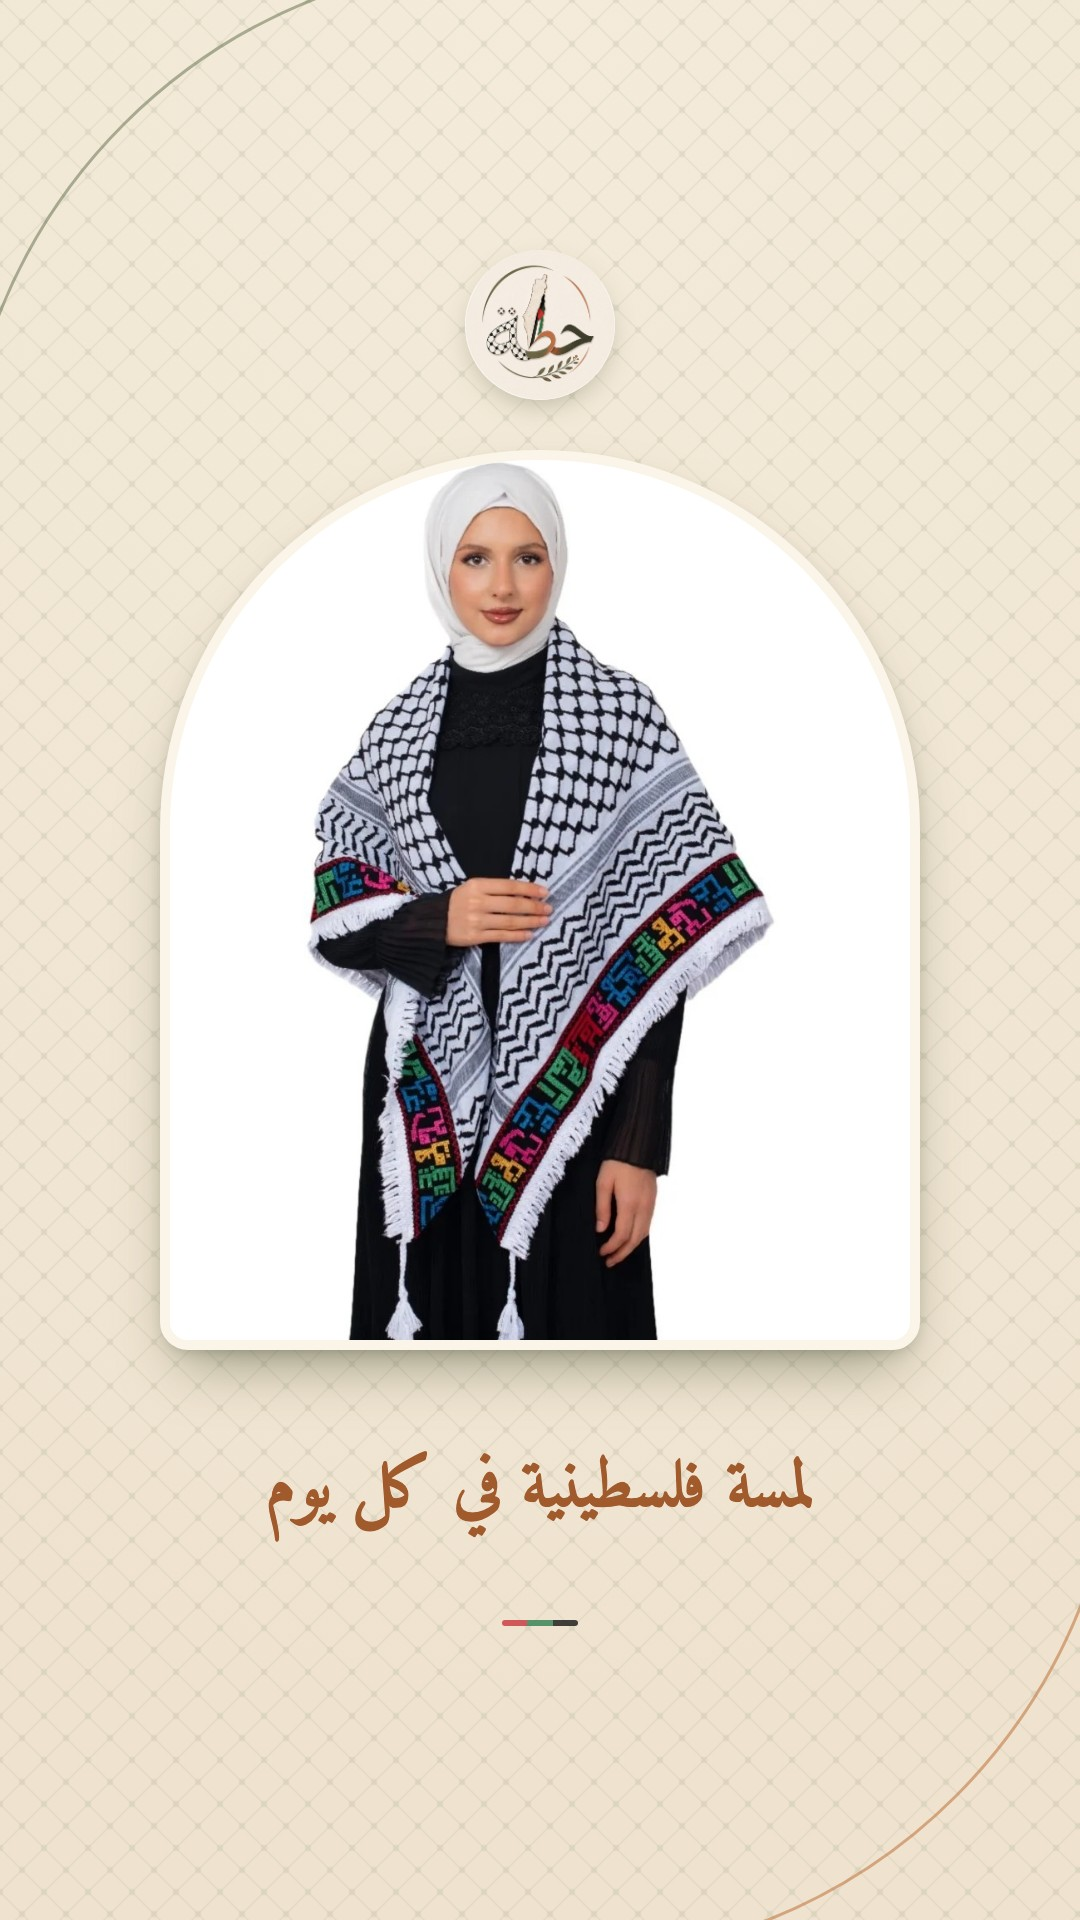
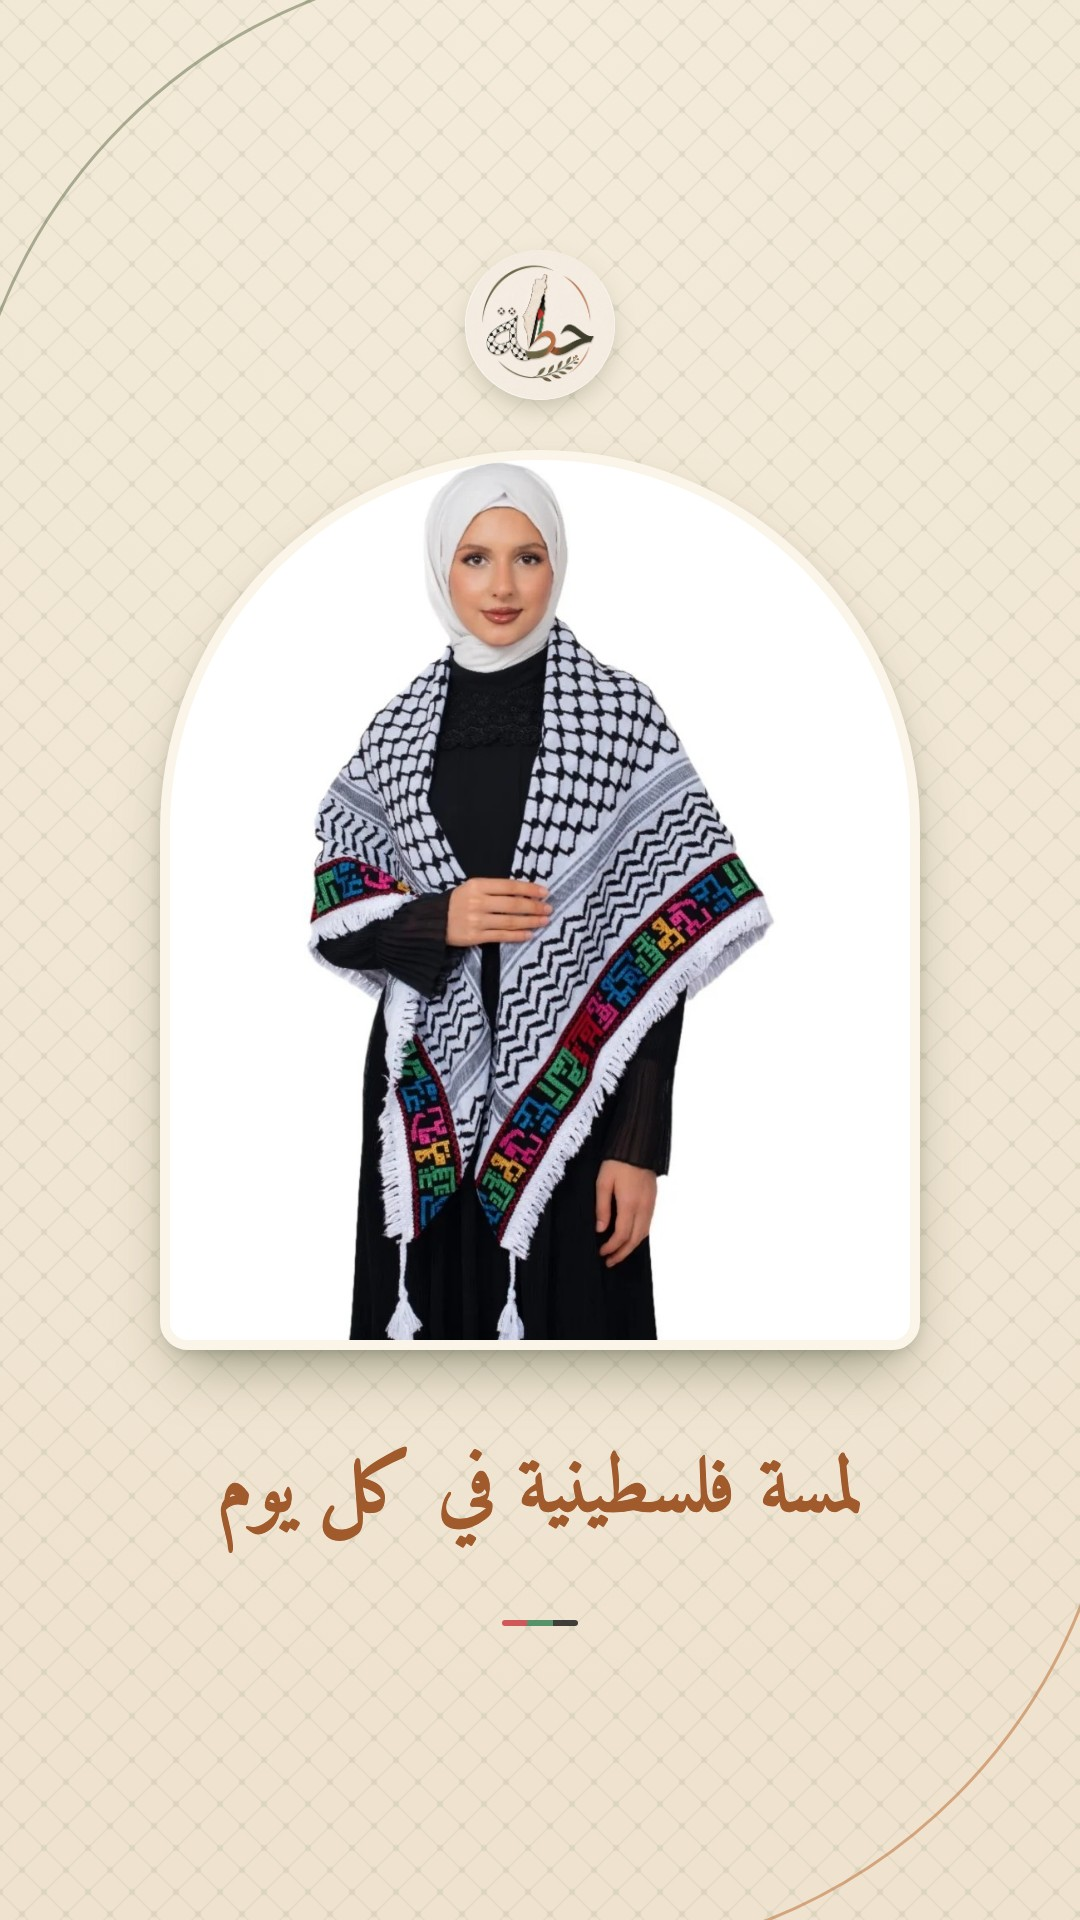
Reels: larger text, tighter end card, to-reel conversion, Instagram container check (no publish)

Changed region(s): [[0.4889, 0.75, 0.7944, 0.8125], [0.1833, 0.75, 0.3972, 0.8125], [0.3972, 0.75, 0.4583, 0.8125]]

diff --git a/automation/src/render/reel.ts b/automation/src/render/reel.ts
@@ -53,7 +53,7 @@ export function reelHtml(req: ReelRequest, a: Assets): string {
   const site = esc(siteDisplay(req.storeUrl));
   const wa = esc(whatsappDisplay());
   const photo1 = a.cutout ? `<img id="p1" class="cutimg" src="${a.cutout}">` : `<img id="p1" class="ph" src="${a.photo}">`;
-  const price = `<div class="pricepill" id="pill" style="top:1480px;opacity:0">${
+  const price = `<div class="pricepill" id="pill" style="top:1485px;opacity:0">${
     req.oldPrice ? `<span class="old">${fmt(req.oldPrice)} TL</span>` : ""
   }<span class="price">${fmt(req.price)} <small>TL</small></span></div>`;
   return `<!doctype html><html lang="ar" dir="rtl"><head><meta charset="utf-8"><style>
@@ -96,14 +96,14 @@ body{font-family:'Amiri','Playfair Display',serif;color:${C.oliveDeep}}
 
 <div class="scene" id="s1">
   <div class="frame${a.cutout ? " cut" : ""}" id="f1" style="left:160px;top:450px;width:760px;height:900px;border-radius:380px 380px 28px 28px;opacity:0">${photo1}</div>
-  <div class="fit head" id="head" data-max="68" data-min="34" style="top:1390px;height:200px"><span>${words(req.text.headline)}</span></div>
+  <div class="fit head" id="head" data-max="80" data-min="38" style="top:1385px;height:215px"><span>${words(req.text.headline)}</span></div>
   <div class="flag" id="flag1" style="top:1620px;opacity:0"></div>
 </div>
 
 <div class="scene" id="s2">
   <div class="frame" id="f2" style="left:140px;top:450px;width:800px;height:720px;border-radius:44px;opacity:0"><img id="p2" class="ph" src="${a.photo2}"></div>
-  <div class="fit name" id="name" data-max="56" data-min="28" style="top:1196px;height:140px;opacity:0"><span>${esc(req.nameAr)}</span></div>
-  <div class="fit subl" id="subl" data-max="38" data-min="24" style="top:1340px;height:116px;opacity:0"><span>${esc(req.text.subline)}</span></div>
+  <div class="fit name" id="name" data-max="62" data-min="30" style="top:1190px;height:150px;opacity:0"><span>${esc(req.nameAr)}</span></div>
+  <div class="fit subl" id="subl" data-max="42" data-min="26" style="top:1345px;height:120px;opacity:0"><span>${esc(req.text.subline)}</span></div>
   ${price}
 </div>
 
@@ -112,10 +112,10 @@ body{font-family:'Amiri','Playfair Display',serif;color:${C.oliveDeep}}
   <img class="logo" id="logo3" src="${logoDataUri()}" style="left:380px;top:430px;width:320px;height:320px;opacity:0;border:6px solid #FBF5E9">
   <div class="t" id="tag" style="top:790px;font-size:50px;color:#E3C9A0;font-weight:700">تراث فلسطيني بين يديك</div>
   <div class="rule" id="rule" style="top:900px;opacity:0"><span class="diamond"></span></div>
-  <div class="t" id="c1" style="top:960px;font-size:46px">اطلب من المتجر</div>
-  <div class="t url" id="c2" style="top:1030px;font-size:64px;color:${C.cream}">${site}</div>
-  <div class="t" id="c3" style="top:1190px;font-size:46px">أو عبر واتساب</div>
-  <div class="t url" id="c4" style="top:1260px;font-size:64px;color:#E3A56E">${wa}</div>
+  <div class="t" id="c1" style="top:960px;font-size:52px">اطلب من المتجر</div>
+  <div class="t url" id="c2" style="top:1035px;font-size:72px;color:${C.cream}">${site}</div>
+  <div class="t" id="c3" style="top:1200px;font-size:52px">أو عبر واتساب</div>
+  <div class="t url" id="c4" style="top:1275px;font-size:72px;color:#E3A56E">${wa}</div>
   <div class="flag" id="flag3" style="top:1420px;opacity:0"></div>
 </div>
 </div>
@@ -125,7 +125,7 @@ const eo=p=>1-Math.pow(1-p,3);
 const eb=p=>{const c=1.70158,d=c+1;return 1+d*Math.pow(p-1,3)+c*Math.pow(p-1,2)};
 const $=id=>document.getElementById(id);
 $('flag1').innerHTML=$('flag3').innerHTML='<i style="background:#111"></i><i style="background:#2E7D4F"></i><i style="background:#C8323B"></i>';
-const S1=[0,4.9],S2=[4.5,9.8],S3=[9.4,${REEL_SECONDS}];
+const S1=[0,4.9],S2=[4.5,9.8],S3=[9.3,${REEL_SECONDS}];
 const sceneOp=(t,s,last)=>Math.min(clamp((t-s[0])/.5),last?1:1-clamp((t-(s[1]-.5))/.5));
 function enter(el,t,t0,dur,kind){const p=clamp((t-t0)/dur);const e=eo(p);el.style.opacity=e;
   if(kind==='pop'){el.style.transform='translateX(-50%) scale('+(.55+.45*eb(p))+')'}
@@ -142,7 +142,7 @@ window.seek=function(t){
   const z2=1.18-.16*clamp(l/(S2[1]-S2[0]));$('p2').style.transform='scale('+z2+') translate('+(14*l)+'px,'+(8*l)+'px)';
   enter($('name'),t,S2[0]+.55,.6,'rise');enter($('subl'),t,S2[0]+.95,.6,'rise');
   enter($('pill'),t,S2[0]+1.5,.7,'pop');
-  const b=S3[0]+.2;enter($('logo3'),t,b,.7,'rise');enter($('tag'),t,b+.45,.6,'rise');
+  const b=S3[0]-.1;enter($('logo3'),t,b,.7,'rise');enter($('tag'),t,b+.45,.6,'rise');
   $('rule').style.opacity=eo(clamp((t-(b+.8))/.5));
   enter($('c1'),t,b+1.0,.5,'rise');enter($('c2'),t,b+1.3,.6,'rise');enter($('c3'),t,b+1.8,.5,'rise');enter($('c4'),t,b+2.1,.6,'rise');
   $('flag3').style.opacity=eo(clamp((t-(b+2.6))/.5));

diff --git a/automation/src/regenerate.ts b/automation/src/regenerate.ts
@@ -1,4 +1,4 @@
-// Re-creates parts of one post. Usage: tsx src/regenerate.ts --post=<uuid> --what=image|caption|both|swap
+// Re-creates parts of one post. Usage: tsx src/regenerate.ts --post=<uuid> --what=image|caption|both|swap|to-reel
 import { loadEnv } from "./env.js";
 import { getSupabase } from "./db.js";
 import { Renderer } from "./render/render.js";
@@ -17,6 +17,7 @@ const settings = await loadSettings(sb);
 const cats = await loadCategories(sb);
 const { data: post, error } = await sb.from("social_posts").select("*").eq("id", postId).single();
 if (error || !post) throw new Error(`post not found: ${error?.message}`);
+if (what === "to-reel" && post.post_type !== "feed") throw new Error("to-reel needs a feed post");
 if (["publishing", "published"].includes(post.status)) throw new Error(`post is ${post.status}; cannot regenerate`);
 
 let productId = post.product_id as string;
@@ -48,9 +49,9 @@ try {
   const caption = what === "caption" || what === "both" || what === "swap";
   // A reel is re-rendered whole (hook text, caption and video come from one model call).
   let assets;
-  if (post.post_type === "reel") {
+  if (post.post_type === "reel" || what === "to-reel") {
     const { count } = await sb.from("social_posts").select("id", { count: "exact", head: true }).eq("post_type", "reel");
-    assets = await buildReelAssets(sb, reelRenderer, settings, cats, { ...post, angle, design: null }, product, count ?? 0);
+    assets = await buildReelAssets(sb, reelRenderer, settings, cats, { ...post, angle, design: null }, product, count ?? 0, what === "to-reel");
   } else {
     assets = await buildPostAssets(sb, renderer, settings, cats, { ...post, angle, design }, product, {
       image,
@@ -60,6 +61,8 @@ try {
   const patch: Record<string, unknown> = { ...assets, product_id: productId, angle, error: null, attempts: 0 };
   if (post.status === "failed") patch.status = "draft";
   if (what === "swap") patch.status = "draft";
+  // to-reel: the feed post becomes a reel of the same product, keeping its caption, slot and approval.
+  if (what === "to-reel") patch.post_type = "reel";
   const { error: upErr } = await sb.from("social_posts").update(patch).eq("id", postId);
   if (upErr) throw new Error(upErr.message);
   log("regenerated", what);

diff --git a/automation/src/meta.ts b/automation/src/meta.ts
@@ -96,3 +96,20 @@ export async function testConnection() {
   out.page = page.name;
   return out;
 }
+
+/** Creates a REELS container for the video and waits for FINISHED — nothing is published. Validates the file against Meta's rules. */
+export async function checkReelContainer(videoUrl: string, coverUrl: string | null): Promise<string> {
+  const igId = need("META_IG_USER_ID");
+  const token = need("META_ACCESS_TOKEN");
+  const params: Record<string, string> = { media_type: "REELS", video_url: videoUrl, share_to_feed: "true", caption: "container check (not published)" };
+  if (coverUrl) params.cover_url = coverUrl;
+  const container = await graph("POST", `${igId}/media`, params, token);
+  for (let i = 0; i < 60; i++) {
+    const s = await graph("GET", container.id, { fields: "status_code,status" }, token);
+    log(`container ${container.id}: ${s.status_code} ${s.status ?? ""}`);
+    if (s.status_code === "FINISHED") return container.id;
+    if (s.status_code === "ERROR" || s.status_code === "EXPIRED") throw new MetaError(`IG container ${s.status_code}: ${s.status ?? ""}`, false);
+    await sleep(10000);
+  }
+  throw new MetaError("container still processing after 10 min", true);
+}

diff --git a/automation/src/pipeline.ts b/automation/src/pipeline.ts
@@ -249,6 +249,7 @@ export async function buildReelAssets(
   post: Pick<SocialPostRow, "id" | "angle" | "design"> & { scheduled_at?: string },
   product: ProductRecord,
   musicIndex: number,
+  keepCaption = false,
 ): Promise<Partial<SocialPostRow>> {
   const categoryAr = cats.get(product.category)?.label_ar ?? "";
   const ctaIndex = await pickCtaIndex(sb, post.scheduled_at ?? null, post.id);
@@ -284,5 +285,5 @@ export async function buildReelAssets(
   const video_url = await up("mp4", video, "video/mp4");
   const image_url = await up("jpg", cover, "image/jpeg");
   log(`reel uploaded (${(video.length / 1e6).toFixed(1)} MB, ${REEL_SECONDS}s)`, video_url);
-  return { video_url, image_url, caption_full: res.caption, design: res.design };
+  return { video_url, image_url, ...(keepCaption ? {} : { caption_full: res.caption }), design: res.design };
 }

diff --git a/automation/src/reel-check.ts b/automation/src/reel-check.ts
@@ -1,0 +1,14 @@
+// Validates a stored reel against Instagram WITHOUT publishing: creates a REELS container and waits for FINISHED.
+// Usage: tsx src/reel-check.ts <social_posts.id>
+import { loadEnv } from "./env.js";
+import { getSupabase } from "./db.js";
+import { checkReelContainer } from "./meta.js";
+
+loadEnv();
+const id = process.argv[2];
+if (!id) throw new Error("post id required");
+const { data: post, error } = await getSupabase().from("social_posts").select("video_url, image_url").eq("id", id).single();
+if (error || !post?.video_url) throw new Error(`no video for ${id}: ${error?.message ?? "video_url empty"}`);
+const container = await checkReelContainer(post.video_url, post.image_url);
+console.log(`OK — Instagram accepted the reel (container ${container}, not published).`);
+process.exit(0);
